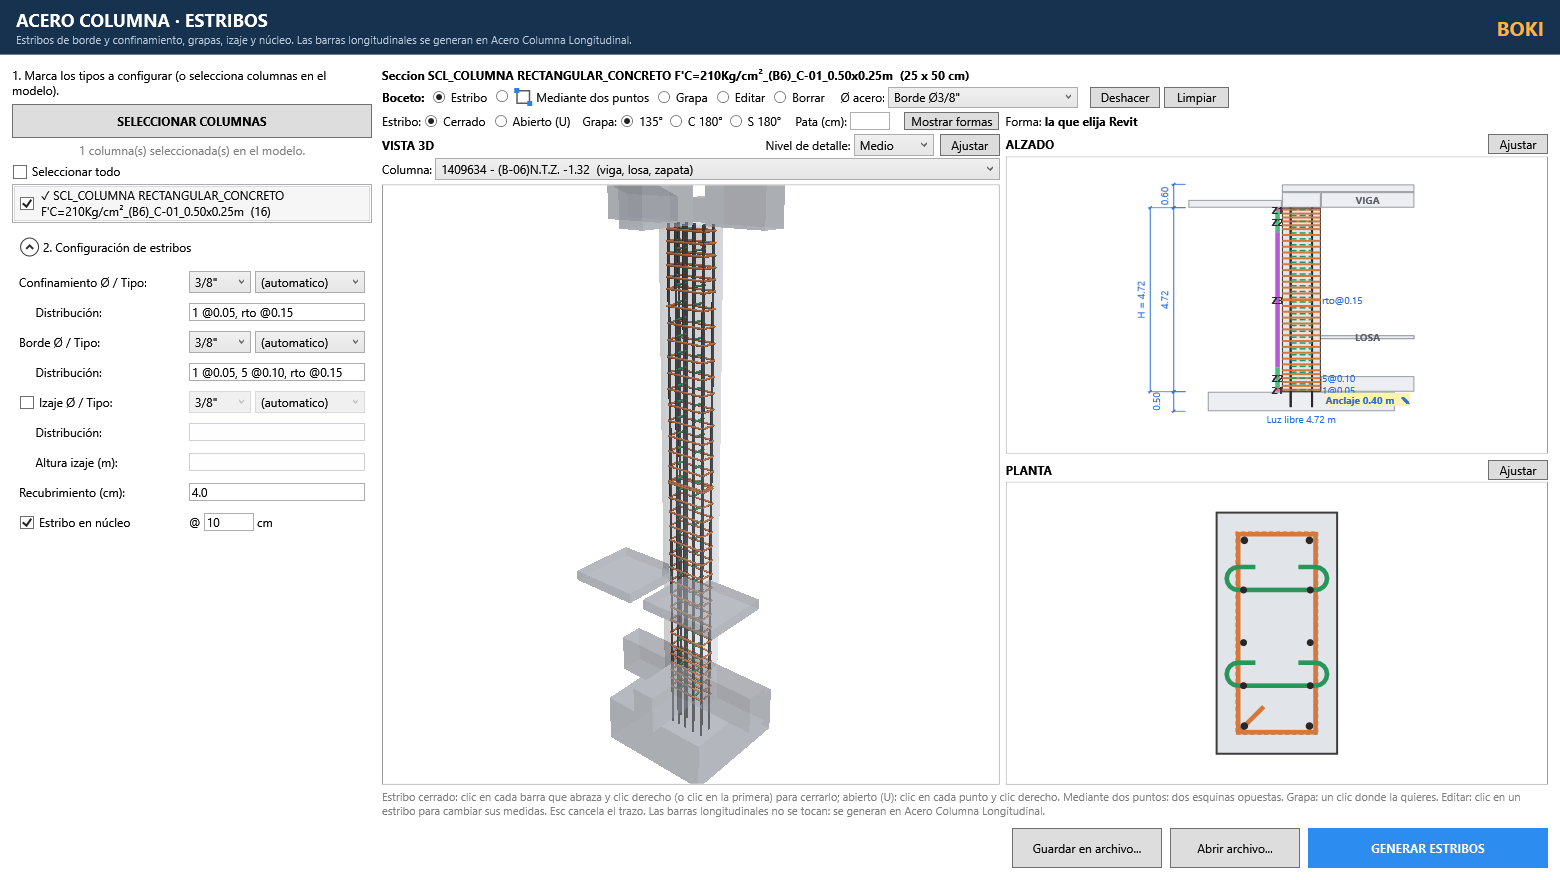
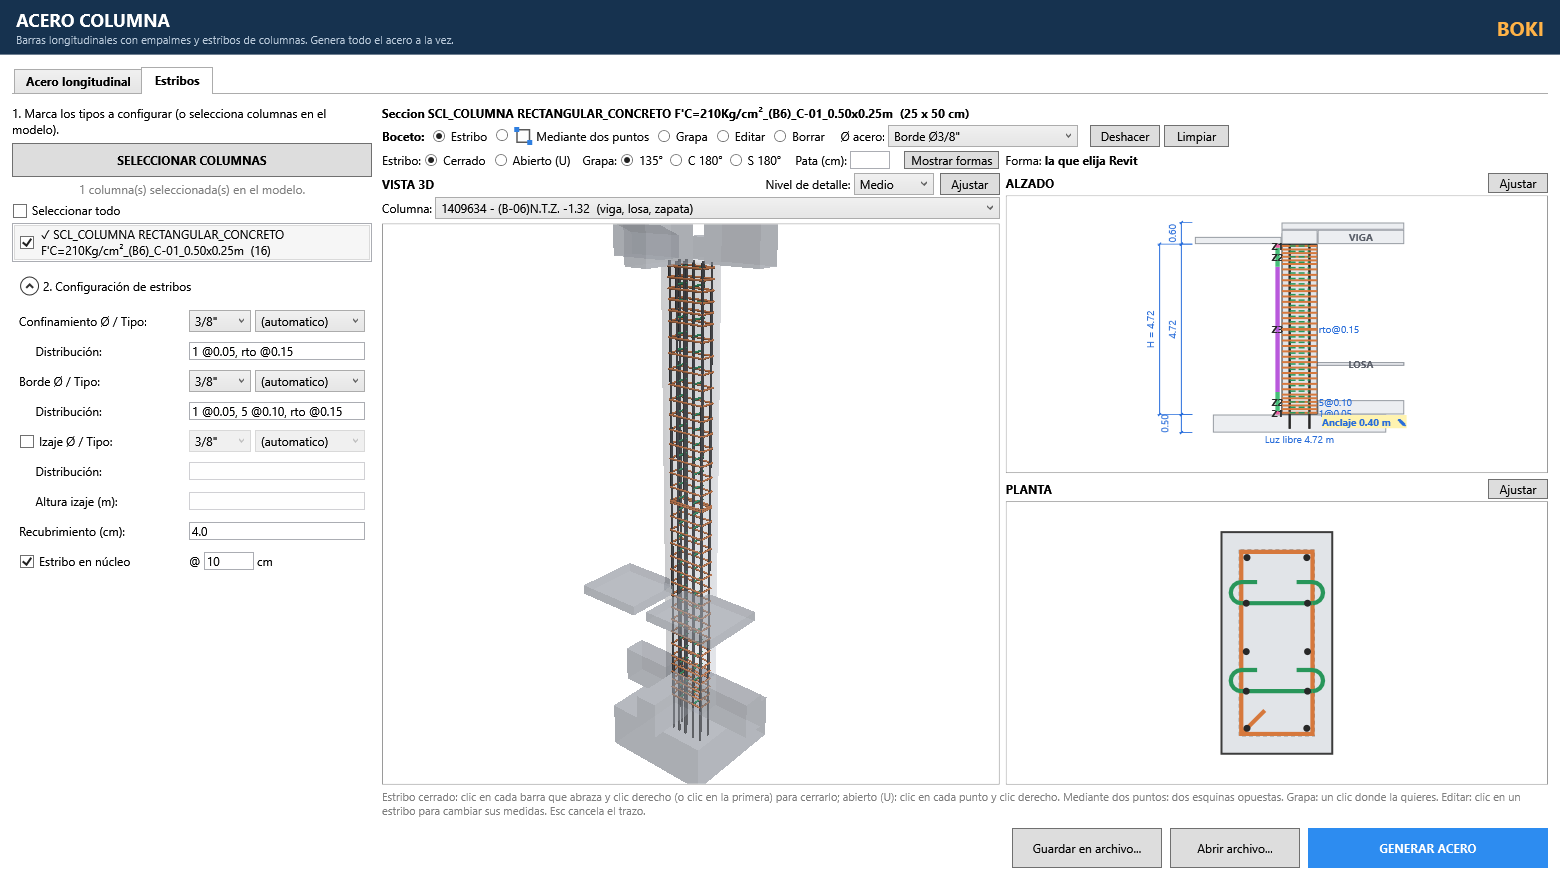
Acero Columna: one window with two tabs (Acero longitudinal / Estribos) instead of two buttons; one generation of everything, as before

diff --git a/BOKI Estructura.tab/Acero.panel/Acero.pushbutton/AceroForm.xaml b/BOKI Estructura.tab/Acero.panel/Acero.pushbutton/AceroForm.xaml
@@ -27,15 +27,23 @@
                        VerticalAlignment="Center"/>
             <StackPanel>
                 <TextBlock x:Name="txt_header" Text="ACERO COLUMNA" Foreground="White" FontSize="18" FontWeight="Bold"/>
-                <TextBlock x:Name="txt_header_sub" Foreground="#FFB9C9DA" FontSize="11"/>
+                <TextBlock x:Name="txt_header_sub" Foreground="#FFB9C9DA" FontSize="11"
+                           Text="Barras longitudinales con empalmes y estribos de columnas. Genera todo el acero a la vez."/>
             </StackPanel>
         </DockPanel>
     </Border>
     <DockPanel Margin="12">
+        <!-- Two tabs over the same window: what the left panel and the sketch
+             tools show (the generation makes everything at once) -->
+        <TabControl DockPanel.Dock="Top" x:Name="tab_steel" Margin="0,0,0,8" SelectionChanged="tab_changed"
+                    Background="Transparent" BorderThickness="0,1,0,0">
+            <TabItem Header="Acero longitudinal" Padding="12,4" FontWeight="Bold"/>
+            <TabItem Header="Estribos" Padding="12,4" FontWeight="Bold"/>
+        </TabControl>
         <!-- Bottom: run (the columns picked in the model, or else every
              column of the checked types) -->
         <DockPanel DockPanel.Dock="Bottom" Margin="0,10,0,0" LastChildFill="False">
-            <Button DockPanel.Dock="Right" x:Name="button_run" Content="Generar acero..." Width="240" Height="40"
+            <Button DockPanel.Dock="Right" x:Name="button_run" Content="GENERAR ACERO" Width="240" Height="40"
                     FontWeight="Bold" Click="run_click" Background="#FF2D8CF0" Foreground="White" BorderThickness="0"
                     ToolTip="Guarda la configuraci&#243;n en el tipo y genera el acero de las columnas seleccionadas (si no hay ninguna seleccionada, de todas las columnas de los tipos marcados)."/>
             <Button DockPanel.Dock="Right" Content="Abrir archivo..." Width="130" Height="40" Margin="0,0,8,0" Click="file_open_click"

diff --git a/BOKI Estructura.tab/Acero.panel/Acero.pushbutton/script.py b/BOKI Estructura.tab/Acero.panel/Acero.pushbutton/script.py
@@ -4,7 +4,7 @@ columnas de concreto. La configuracion (longitudinal, estribos, nucleo y
 el dibujo de la seccion con estribos, grapas y barras a mano) se guarda
 en cada tipo de columna."""
 
-__title__ = "Acero Columna\nLongitudinal"
+__title__ = "Acero\nColumna"
 __author__ = "Revit MCP"
 
 import io
@@ -62,11 +62,6 @@ BAR_SLOT_DEFAULTS = [u'1/2"', u'5/8"', u'3/4"', u'1"']  # the four "Barras" opti
 # pyRevit settings shared by the Acero buttons (column and beam): bar
 # options, splice and hook lengths per diameter.
 CONFIG_SECTION = "OLSTR_Acero"
-
-# Two windows on this script: this button (bars and laps) and "Acero Columna
-# Estribos", which runs it with ACERO_COLUMNA_MODO = "estribos".
-MODE_LONG, MODE_STIRRUPS = "longitudinal", "estribos"
-MODE = globals().get("ACERO_COLUMNA_MODO") or MODE_LONG
 
 
 def load_bar_slots():
@@ -409,53 +404,50 @@ class AceroWindow(forms.WPFWindow):
         active = state.active if state.active in self.by_id else (types[0].id if types else None)
         if active is not None:
             self._select_type(active)
-        self._apply_mode()
+        self._row_heights = [row.Height for row in self.grid_stirrups.RowDefinitions]
+        self._show_tab(self.tab_steel.SelectedIndex == 0)
 
-    def _apply_mode(self):
-        """This window is one of two (MODE): "Longitudinal y empalmes" or
-        "Estribos". Each shows only its own settings and sketch tools and
-        generates only its own steel; the views, the neighbours and the
-        joint are the same in both."""
-        hide = []
-        if MODE == MODE_LONG:
-            self.Title = u"Acero Columna - Longitudinal y empalmes"
-            self.txt_header.Text = u"ACERO COLUMNA · LONGITUDINAL Y EMPALMES"
-            self.txt_header_sub.Text = (u"Barras verticales, anclajes y empalmes por traslape "
-                                        u"(tercio central, Le de la tabla, máx. 50% por sección). "
-                                        u"Los estribos se generan en Acero Columna Estribos.")
-            self.button_run.Content = u"GENERAR LONGITUDINAL"
-            # only the cover stays of the stirrup settings (row 7)
-            for child in self.grid_stirrups.Children:
-                if Grid.GetRow(child) != 7:
-                    hide.append(child)
-            for k, row in enumerate(self.grid_stirrups.RowDefinitions):
-                if k != 7:
-                    row.Height = GridLength(0)
-            self.exp_stirrups.Header = u"Recubrimiento"
+    def tab_changed(self, sender, args):
+        if args.OriginalSource is self.tab_steel and hasattr(self, "_row_heights"):
+            self._show_tab(self.tab_steel.SelectedIndex == 0)
+
+    def _show_tab(self, longitudinal):
+        """Two tabs over the same window: "Acero longitudinal" (bars and
+        laps) and "Estribos" (stirrups, ties, izaje, joint). Each shows only
+        its settings and sketch tools; views, neighbours, the joint and the
+        generation (everything at once) are the same."""
+        stirrup_only = [self.rb_stirrup, self.rb_rect, self.rb_tie, self.rb_edit, self.txt_steel, self.cbo_steel,
+                        self.wrap_shape, self.button_shapes]
+        for element in stirrup_only:
+            element.Visibility = Visibility.Collapsed if longitudinal else Visibility.Visible
+        for element in (self.exp_bars, self.exp_splice):
+            element.Visibility = Visibility.Visible if longitudinal else Visibility.Collapsed
+        # of the stirrup settings only the cover (row 7) and the save button
+        # (row 9) stay on the bars tab
+        for child in self.grid_stirrups.Children:
+            if Grid.GetRow(child) == 9:
+                continue  # the save button: shown by the code that needs it
+            hidden = longitudinal and Grid.GetRow(child) != 7
+            child.Visibility = Visibility.Collapsed if hidden else Visibility.Visible
+        for k, row in enumerate(self.grid_stirrups.RowDefinitions):
+            row.Height = GridLength(0) if (longitudinal and k not in (7, 9)) else self._row_heights[k]
+        self.exp_stirrups.Header = u"Recubrimiento" if longitudinal else u"2. Configuración de estribos"
+        if longitudinal:
             self.exp_bars.IsExpanded = True
             self.exp_splice.IsExpanded = True
-            hide += [self.rb_stirrup, self.rb_rect, self.rb_tie, self.rb_edit, self.txt_steel, self.cbo_steel,
-                     self.wrap_shape, self.button_shapes]
-            self.rb_bar_1.IsChecked = True
+            if not any(rb.IsChecked for rb, _ in self.bar_tools):
+                self.rb_bar_1.IsChecked = True
             self.txt_help.Text = (u"Barras: elige una de las 4 opciones y haz clic en la planta donde va cada barra "
                                   u"(cerca de un estribo se pega a su cara interior); Borrar quita una barra. "
-                                  u"Las barras ya generadas y los estribos existentes no se tocan al generar los "
-                                  u"estribos, ni los estribos al generar las barras.")
+                                  u"Empalmes: tercio central, Le de la tabla, máx. 50% de barras por sección.")
         else:
-            self.Title = u"Acero Columna - Estribos"
-            self.txt_header.Text = u"ACERO COLUMNA · ESTRIBOS"
-            self.txt_header_sub.Text = (u"Estribos de borde y confinamiento, grapas, izaje y núcleo. "
-                                        u"Las barras longitudinales se generan en Acero Columna Longitudinal.")
-            self.button_run.Content = u"GENERAR ESTRIBOS"
+            if not (self.rb_stirrup.IsChecked or self.rb_rect.IsChecked or self.rb_tie.IsChecked
+                    or self.rb_edit.IsChecked or self.rb_erase.IsChecked):
+                self.rb_stirrup.IsChecked = True
             self.txt_help.Text = (u"Estribo cerrado: clic en cada barra que abraza y clic derecho (o clic en la primera) "
                                   u"para cerrarlo; abierto (U): clic en cada punto y clic derecho. Mediante dos puntos: "
                                   u"dos esquinas opuestas. Grapa: un clic donde la quieres. Editar: clic en un estribo "
-                                  u"para cambiar sus medidas. Esc cancela el trazo. Las barras longitudinales no se "
-                                  u"tocan: se generan en Acero Columna Longitudinal.")
-            hide += [self.exp_bars, self.exp_splice]
-        for element in hide:
-            element.Visibility = Visibility.Collapsed
-
+                                  u"para cambiar sus medidas. Esc cancela el trazo.")
     # -- type list ---------------------------------------------------------
     def _compact_list(self):
         """With columns picked, the type box holds just their types: it sits
@@ -2170,8 +2162,8 @@ class AceroWindow(forms.WPFWindow):
             dist = rs.distance_to_polyline if is_open else rs.distance_to_polygon
             candidates.append((dist(m, poly), "stirrups", i))
         # each window erases only its own steel (bars / stirrups and ties)
-        candidates = [c for c in candidates if c[0] <= tol and (c[1] == "bars") == (MODE == MODE_LONG)]
-        if not candidates and MODE != MODE_LONG:
+        candidates = [c for c in candidates if c[0] <= tol and (c[1] == "bars") == (self.tab_steel.SelectedIndex == 0)]
+        if not candidates and self.tab_steel.SelectedIndex != 0:
             # Not on any bar, tie or edge: the stirrup the click is inside.
             index = self._stirrup_at(frame, p)
             if index is not None:
@@ -2452,8 +2444,7 @@ try:
             sub.Start()
             try:
                 created, found = rc.generate_stack(
-                    doc, stack, specs[ct.id], bar_types, hooks, rc.type_mark(ct.name), rebar_shapes, splice,
-                    parts=set([rc.LONGITUDINAL] if MODE == MODE_LONG else [rc.STIRRUPS])
+                    doc, stack, specs[ct.id], bar_types, hooks, rc.type_mark(ct.name), rebar_shapes, splice
                 )
                 sub.Commit()
                 done += [(column, ct.name, created[id_of(column.Id)]) for column in stack]

diff --git a/revit_mcp/rebar_columns.py b/revit_mcp/rebar_columns.py
@@ -814,55 +814,20 @@ def clear_top(doc, column, section):
     return section.z_top
 
 
-def delete_generated(doc, column, parts=None):
-    """Delete the bars an earlier run generated for this column. `parts`
-    (a set of LONGITUDINAL / STIRRUPS) deletes only those - the rest is
-    kept and returned as [(rebar, diameter key, kind)] so its weight still
-    counts; None: everything (returns the number deleted)."""
+def delete_generated(doc, column):
+    """Delete the bars an earlier run generated for this column."""
     column_id = str(element_id_value(column.Id))
     host_data = RebarHostData.GetRebarHostData(column)
     if host_data is None:
-        return 0 if parts is None else []
-    old, kept = [], []
+        return 0
+    old = []
     for rebar in host_data.GetRebarsInHost():
         p = rebar.LookupParameter(ORIGIN_PARAM)
-        if p is None or p.AsString() != column_id:
-            continue
-        if parts is None:
+        if p is not None and p.AsString() == column_id:
             old.append(rebar.Id)
-            continue
-        kind = LONGITUDINAL if _is_vertical(rebar) else EDGE
-        if (LONGITUDINAL if kind == LONGITUDINAL else STIRRUPS) in parts:
-            old.append(rebar.Id)
-        else:
-            kept.append((rebar, _diameter_key(rebar), kind))
     if old:
         doc.Delete(List[DB.ElementId](old))
-    return len(old) if parts is None else kept
-
-
-STIRRUPS = "stirrups"  # generate_column parts: stirrups and ties
-
-
-def _is_vertical(rebar):
-    """A longitudinal bar: its first bar runs up more than across."""
-    points = _centerline_points(rebar)
-    if not points:
-        return False
-    zs = [p.Z for p in points]
-    xs = [p.X for p in points]
-    ys = [p.Y for p in points]
-    return max(zs) - min(zs) > max(max(xs) - min(xs), max(ys) - min(ys))
-
-
-def _diameter_key(rebar):
-    """The nearest diameter key of a bar's type."""
-    bar_type = rebar.Document.GetElement(rebar.GetTypeId())
-    try:
-        mm = bar_type.BarNominalDiameter * FT * 1000.0
-    except Exception:
-        mm = bar_type.BarDiameter * FT * 1000.0
-    return min(spec.BAR_DIAMETERS_MM, key=lambda k: abs(spec.BAR_DIAMETERS_MM[k] - mm))
+    return len(old)
 
 
 def _tag(rebar, column):
@@ -1035,7 +1000,7 @@ def _bar_type(bar_types, key, mark):
     return bar_type
 
 
-def generate_column(doc, column, column_spec, bar_types, hooks, mark, shapes=None, longitudinal=True, parts=None):
+def generate_column(doc, column, column_spec, bar_types, hooks, mark, shapes=None, longitudinal=True):
     """Create the column's longitudinal bars, stirrups and ties from its
     drawing (inside an active Transaction; Revit needs a Regenerate before
     their lengths are known, see `record_weight`). Perimeter stirrups use
@@ -1043,21 +1008,15 @@ def generate_column(doc, column, column_spec, bar_types, hooks, mark, shapes=Non
     ones; each takes the rebar shape it was drawn with (`shapes`, a
     RebarShapes) when it has one. `longitudinal`=False leaves the vertical
     bars out (a stack makes them continuous, see `generate_stack`).
-    `parts` (a set of LONGITUDINAL / STIRRUPS): only those are remade, the
-    column's other generated bars stay (listed back for their weight);
-    None: everything. Returns [(rebar, diameter_key, kind)]."""
+    Returns [(rebar, diameter_key, kind)]."""
     section = Section(column)
     design = column_spec.design
 
     def bar_type_for(key):
         return _bar_type(bar_types, key, mark)
 
-    if parts is None:
-        delete_generated(doc, column)
-        created = []
-    else:
-        created = delete_generated(doc, column, parts)
-        longitudinal = longitudinal and LONGITUDINAL in parts
+    delete_generated(doc, column)
+    created = []
 
     height_m = (section.z_top - section.z_bottom) * FT
     for x, y, key in (design["bars"] if longitudinal else []):
@@ -1070,8 +1029,6 @@ def generate_column(doc, column, column_spec, bar_types, hooks, mark, shapes=Non
         )
         _tag(rebar, column)
         created.append((rebar, key, LONGITUDINAL))
-    if parts is not None and STIRRUPS not in parts:
-        return created
 
     z_clear_top = clear_top(doc, column, section)
     # Izaje: over a footing, from the column base up to izaje_h; the column's
@@ -1210,7 +1167,7 @@ def column_stacks(columns, xy_tol_m=0.02, z_tol_m=0.10):
     return [columns_ for columns_, _ in stacks]
 
 
-def generate_stack(doc, stack, column_spec, bar_types, hooks, mark, shapes=None, splice=None, parts=None):
+def generate_stack(doc, stack, column_spec, bar_types, hooks, mark, shapes=None, splice=None):
     """Create the rebar of a stack of columns (`column_stacks`, bottom up):
     each column's stirrups and ties (`generate_column`), and longitudinal
     bars running the whole stack, cut into bars of at most splice["max"] m
@@ -1223,15 +1180,12 @@ def generate_stack(doc, stack, column_spec, bar_types, hooks, mark, shapes=None,
     warnings): a longitudinal bar is listed in every column it runs
     through, with the share of its length there (see `record_weight`)."""
     if splice is None:
-        return dict((element_id_value(c.Id), generate_column(doc, c, column_spec, bar_types, hooks, mark, shapes,
-                                                             parts=parts))
+        return dict((element_id_value(c.Id), generate_column(doc, c, column_spec, bar_types, hooks, mark, shapes))
                     for c in stack), []
     created = {}
     for column in stack:
         created[element_id_value(column.Id)] = generate_column(
-            doc, column, column_spec, bar_types, hooks, mark, shapes, longitudinal=False, parts=parts)
-    if parts is not None and LONGITUDINAL not in parts:  # stirrups only: the bars stay
-        return created, []
+            doc, column, column_spec, bar_types, hooks, mark, shapes, longitudinal=False)
     sections = [Section(c) for c in stack]
     base = sections[0]
     z0_ft = base.z_bottom
